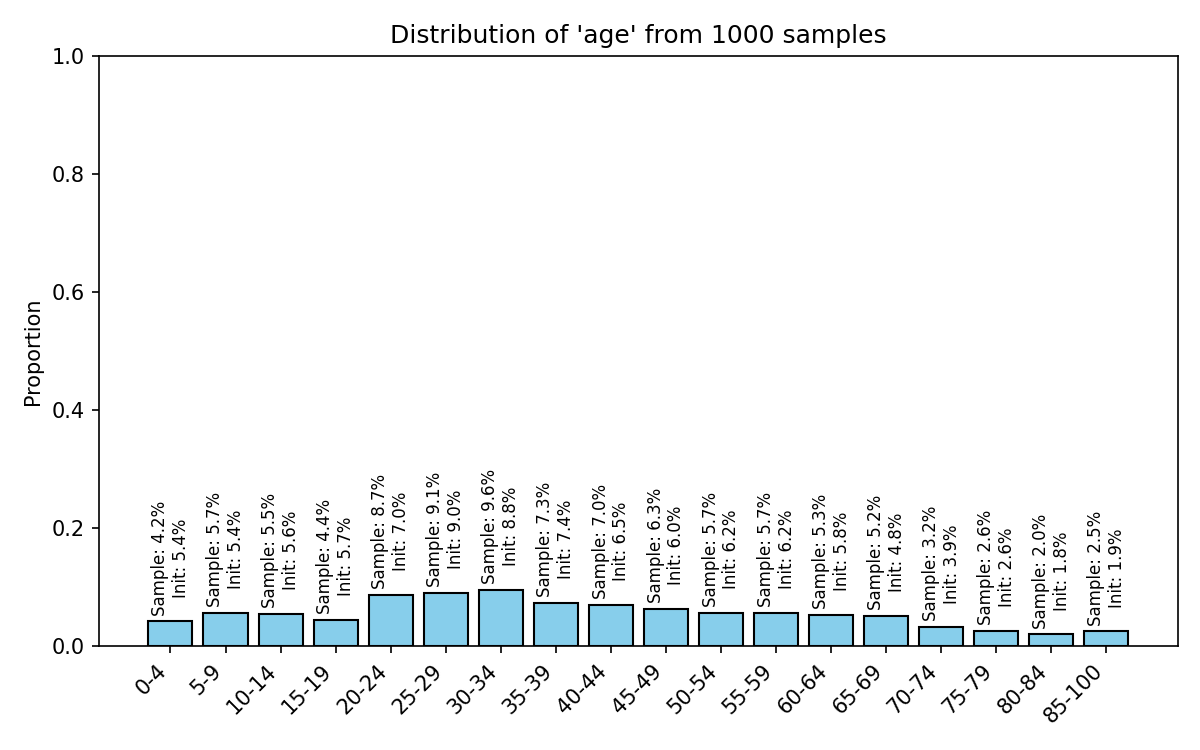
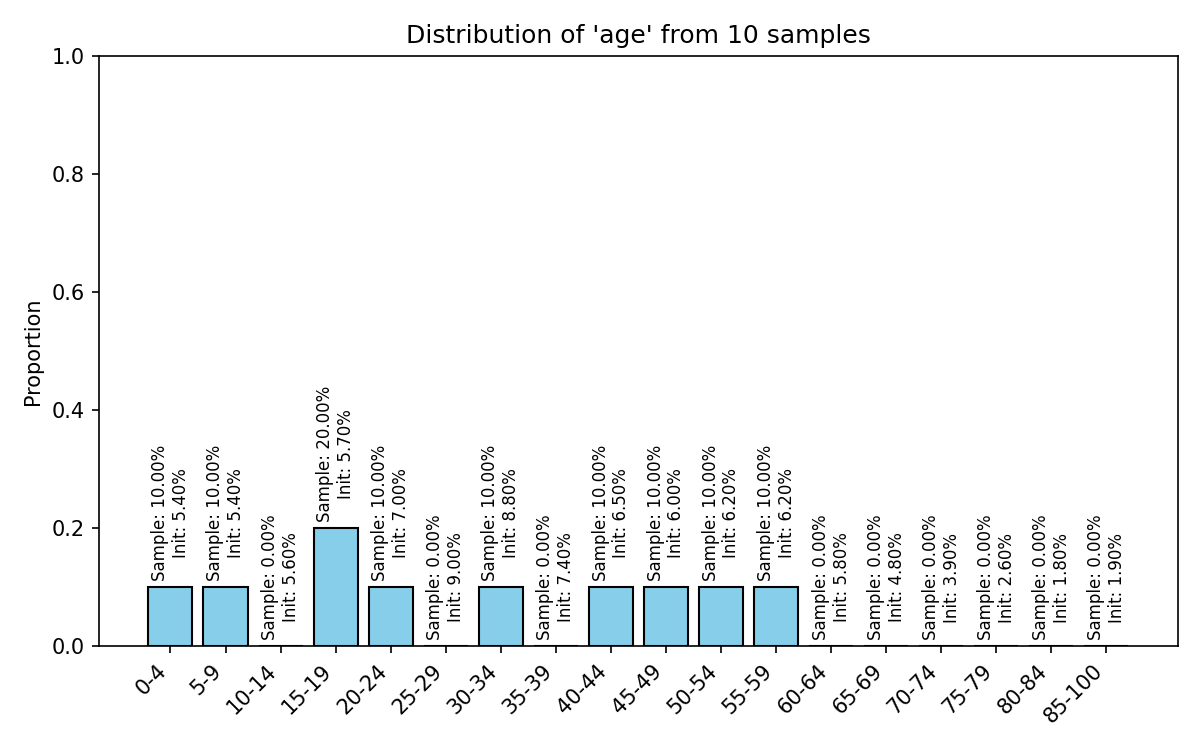
Update vars

Changed region(s): [[0.1233, 0.5213, 0.9558, 0.8587], [0.3083, 0.0307, 0.74, 0.0613]]

diff --git a/users/plot_distribution.py b/users/plot_distribution.py
@@ -14,26 +14,36 @@ def sample_and_plot_distributions(num_samples=10, output_dir="./users/output"):
     4. Annotates each bar with both:
        - The original (initial) distribution probability
        - The sampled proportion.
+       
+    Special handling:
+       - If `.uniform()` returns booleans (True/False) but distribution is
+         labeled ("Yes", p1), ("No", p2), we map True -> "Yes", False -> "No".
     
     :param num_samples: Number of samples to draw for each attribute
-    :param output_dir: Directory to save the resulting bar charts
+    :param output_dir:  Directory to save the resulting bar charts
     """
-    # Get only those attributes that actually have a defined distribution
     dist_attrs = PersonAttributeMeta.attribute_distribution()
 
     for attr, dist in dist_attrs.items():
-        # -----------------------------------------
-        # 1. Collect samples
-        # -----------------------------------------
+        # ---------------------------------------------------
+        # 1. Collect N samples from .uniform()
+        # ---------------------------------------------------
         samples = [PersonAttributeMeta.registry[attr].uniform() for _ in range(num_samples)]
         
-        # -----------------------------------------
-        # 2. Build a label->prob mapping (from .distribution)
-        #    For continuous/interval attributes (like 'age'),
-        #    we label each interval as "start-end".
-        # -----------------------------------------
+        # ---------------------------------------------------
+        # 2. Extract label->prob (from distribution)
+        #
+        #    For discrete attributes, you might have:
+        #       [("male", 47.5), ("female", 52.5)]
+        #
+        #    For intervals, you might have:
+        #       [((0,4), 5.4), ((5,9), 5.4), ...]
+        #
+        #    For yes/no booleans:
+        #       [("Yes", 0.74), ("No", 99.26)]
+        # ---------------------------------------------------
         def get_label_and_prob(d):
-            # d is either ((start,end), probability) or (value, probability)
+            # d is either ((start,end), prob) or (str, prob)
             value, prob = d
             if isinstance(value, tuple):
                 start, end = value
@@ -44,74 +54,77 @@ def sample_and_plot_distributions(num_samples=10, output_dir="./users/output"):
 
         label_prob = {}
         for d in dist:
-            label, prob = get_label_and_prob(d)
-            label_prob[label] = prob  # prob is in %, e.g. 5.4 means 5.4%
+            label, prob = get_label_and_prob(d)   # e.g. ("Yes", 0.74)
+            label_prob[label] = prob             # store probability (0.74, etc.)
 
-        # -----------------------------------------
+        # ---------------------------------------------------
         # 3. Tally up the sampled results
-        #    For intervals, find which bin each sample falls into.
-        # -----------------------------------------
+        #    - If we have intervals, find which interval the sample falls into.
+        #    - If sample is boolean, map True->"Yes", False->"No" if that matches
+        #      the distribution keys.
+        #    - Otherwise, do str(sample).
+        # ---------------------------------------------------
         freq_dict = {lbl: 0 for lbl in label_prob.keys()}
         
         def sample_to_label(s):
-            """
-            For interval-based distribution (e.g. 'age'), find which interval
-            s belongs to. Otherwise, return the discrete label (like 'male').
-            """
+            # Check if the distribution is interval-based
             if isinstance(dist[0][0], tuple):
                 # intervals of form ((start, end), prob)
                 for (rng, _prob) in dist:
                     start, end = rng
                     if start <= s <= end:
                         return f"{start}-{end}"
-            else:
-                # Discrete distribution
-                return str(s)
+            
+            # If sample is boolean and the distribution is "Yes"/"No"
+            # we match accordingly:
+            if isinstance(s, bool) and "Yes" in label_prob and "No" in label_prob:
+                return "Yes" if s else "No"
+            
+            # Otherwise treat as a discrete category (string)
+            return str(s)
 
         for s in samples:
             freq_dict[sample_to_label(s)] += 1
 
-        # -----------------------------------------
+        # ---------------------------------------------------
         # 4. Prepare data for plotting
-        # -----------------------------------------
-        labels = list(freq_dict.keys())          # category labels (e.g. '0-4', 'male', etc.)
+        # ---------------------------------------------------
+        labels = list(freq_dict.keys())          # e.g. ["Yes","No"] or intervals, etc.
         freqs = [freq_dict[lbl] for lbl in labels]
         total = sum(freqs)
         proportions = [f / total for f in freqs]  # fraction in [0,1]
 
-        # -----------------------------------------
+        # ---------------------------------------------------
         # 5. Plot the bar chart
-        # -----------------------------------------
+        # ---------------------------------------------------
         x = np.arange(len(labels))
         fig, ax = plt.subplots(figsize=(8, 5))
         
-        # Draw bars
         bars = ax.bar(x, proportions, color="skyblue", edgecolor="black")
 
-        # Title & labels
         ax.set_title(f"Distribution of '{attr}' from {num_samples} samples")
         ax.set_xticks(x)
         ax.set_xticklabels(labels, rotation=45, ha='right')
         ax.set_ylabel("Proportion")
-        ax.set_ylim([0, 1.0])  # proportions go from 0 to 1
+        ax.set_ylim([0, 1.0])  # proportions range from 0 to 1
 
-        # -----------------------------------------
-        # 6. Annotate each bar:
-        #    - Sample proportion (based on the simulation)
-        #    - Initial distribution probability (from label_prob)
-        # -----------------------------------------
+        # ---------------------------------------------------
+        # 6. Annotate each bar with:
+        #    - The sample proportion
+        #    - The initial distribution probability
+        # ---------------------------------------------------
         for i, lbl in enumerate(labels):
-            init_prob = label_prob[lbl]          # e.g. 5.4 means 5.4%
+            init_prob = label_prob[lbl]          # e.g. 0.74
             sample_prop = proportions[i]         # fraction in [0,1]
-            sample_percent = sample_prop * 100   # convert fraction to percentage
+            sample_percent = sample_prop * 100   # e.g. 55.2 for 0.552
 
-            # Position the text slightly above the bar
+            # text position
             bar_height = sample_prop
             text_x = x[i]
             text_y = bar_height + 0.01
 
-            annotation = (f"Sample: {sample_percent:.1f}%\n"
-                          f"Init: {init_prob:.1f}%")
+            annotation = (f"Sample: {sample_percent:.2f}%\n"  # show 2 decimal places
+                          f"Init: {init_prob:.2f}%")
             
             ax.text(
                 text_x,
@@ -125,9 +138,9 @@ def sample_and_plot_distributions(num_samples=10, output_dir="./users/output"):
 
         plt.tight_layout()
 
-        # -----------------------------------------
+        # ---------------------------------------------------
         # 7. Save the figure
-        # -----------------------------------------
+        # ---------------------------------------------------
         plot_filename = f"{output_dir}/{attr}_distribution.png"
         plt.savefig(plot_filename, dpi=150)
         print(f"Saved distribution plot for '{attr}' to: {plot_filename}")
@@ -136,4 +149,4 @@ def sample_and_plot_distributions(num_samples=10, output_dir="./users/output"):
 if __name__ == "__main__":
     random.seed(42)
     np.random.seed(42)
-    sample_and_plot_distributions(num_samples=1000)
+    sample_and_plot_distributions(num_samples=10)

diff --git a/users/user_features.py b/users/user_features.py
@@ -114,6 +114,9 @@ def sample_categorical(dist):
 
     return dist[-1][0]
 
+def yes_no_to_bool_map(yes_or_no_string):
+    return yes_or_no_string.lower() == "yes"
+
 ### DEMOGRAPHICS ###
 class age(BasePersonAttr):
     distribution = [((0, 4), 5.4), ((5, 9), 5.4), ((10, 14), 5.6), ((15, 19), 5.7), ((20, 24), 7.0), ((25, 29), 9.0), ((30, 34), 8.8), ((35, 39), 7.4), ((40, 44), 6.5), ((45, 49), 6.0), ((50, 54), 6.2), ((55, 59), 6.2), ((60, 64), 5.8), ((65, 69), 4.8), ((70, 74), 3.9), ((75, 79), 2.6), ((80, 84), 1.8), ((85, 100), 1.9)]
@@ -153,9 +156,10 @@ class RelationEnum(Enum):
 
 
 class relation(BasePersonAttr):
+    distribution = [("self", 0), ("spouse", 13.8), ("child", 27.6), ("stepchild", 2.075), ("grandchild", 2.5), ("foster child", 2.65), ("adopted child", 13.8), ("sibling", 2.075), ("niece_nephew", 2.075), ("other_family", 2.075), ("other_non_family", 2.65)]
     schema = And(lambda x: x in RelationEnum._value2member_map_)
     random = lambda: np.random.choice(list(RelationEnum)).value
-    uniform = lambda: np.random.choice(list(RelationEnum)).value
+    uniform = lambda: sample_categorical(relation.distribution)
     default = RelationEnum.SELF.value
     nl_fn = lambda n, x: (
         f"You are {n}" if x == RelationEnum.SELF.value else f"{n} is your {x}"
@@ -165,17 +169,19 @@ class relation(BasePersonAttr):
 
 
 class disabled(BasePersonAttr):
+    distribution = [("Yes", 11), ("No", 89)]
     schema = And(bool)
     random = lambda: bool(np.random.choice([True, False]))
-    uniform = lambda: bool(np.random.choice([True, False]))
+    uniform = lambda: yes_no_to_bool_map(sample_categorical(disabled.distribution))
     default = False
     nl_fn = lambda n, x: f"{n} is disabled." if x else f"{n} is not disabled."
 
 
 class has_ssn(BasePersonAttr):
+    distribution = [("Yes", 96.83), ("No", 3.17)]
     schema = And(bool)
     random = lambda: bool(np.random.choice([True, False]))
-    uniform = lambda: bool(np.random.choice([True, False]))
+    uniform = lambda: yes_no_to_bool_map(sample_categorical(has_ssn.distribution))
     default = True
     nl_fn = lambda n, x: (
         f"{n} has a social security number (SSN)."
@@ -193,9 +199,10 @@ class has_ssn(BasePersonAttr):
 
 
 class has_atin(BasePersonAttr):
+    distribution = [("Yes", 4.0), ("No", 96.0)]
     schema = And(bool)
     random = lambda: bool(np.random.choice([True, False]))
-    uniform = lambda: bool(np.random.choice([True, False]))
+    uniform = lambda: yes_no_to_bool_map(sample_categorical(has_atin.distribution))
     default = False
     nl_fn = lambda n, x: (
         f"{n} has an adoption taxpayer ID number (ATIN)."
@@ -210,9 +217,10 @@ class has_atin(BasePersonAttr):
 
 
 class has_itin(BasePersonAttr):
+    distribution = [("Yes", 0.74), ("No", 99.26)]
     schema = And(bool)
     random = lambda: bool(np.random.choice([True, False]))
-    uniform = lambda: bool(np.random.choice([True, False]))
+    uniform = lambda: yes_no_to_bool_map(sample_categorical(has_itin.distribution))
     default = False
     nl_fn = lambda n, x: (
         f"{n} has an individual taxpayer ID number (ITIN)."
@@ -232,9 +240,10 @@ class has_itin(BasePersonAttr):
 
 
 class can_care_for_self(BasePersonAttr):
+    distribution = [("Yes", 3.69), ("No", 96.31)]
     schema = And(bool)
     random = lambda: bool(np.random.choice([True, False]))
-    uniform = lambda: bool(np.random.choice([True, False]))
+    uniform = lambda: yes_no_to_bool_map(sample_categorical(can_care_for_self.distribution))
     default = True
     nl_fn = lambda n, x: (
         f"{n} can care for themselves." if x else f"{n} cannot care for themselves."
@@ -252,9 +261,10 @@ class PlaceOfResidenceEnum(Enum):
 
 
 class place_of_residence(BasePersonAttr):
+    distribution = [("New York City", 47.1), ("Jersey", 52.9)]
     schema = And(lambda x: x in [y.value for y in PlaceOfResidenceEnum])
     random = lambda: np.random.choice([x.value for x in PlaceOfResidenceEnum])
-    uniform = lambda: np.random.choice([x.value for x in PlaceOfResidenceEnum])
+    uniform = lambda: sample_categorical(place_of_residence.distribution)
     default = PlaceOfResidenceEnum.NYC.value
     nl_fn = lambda n, x: f"{n} lives in {x}."
 
@@ -264,9 +274,10 @@ class place_of_residence(BasePersonAttr):
 
 # Training Info
 class enrolled_in_educational_training(BasePersonAttr):
+    distribution = [("Yes", 53.8), ("No", 56.2)]
     schema = And(bool)
     random = lambda: bool(np.random.choice([True, False]))
-    uniform = lambda: bool(np.random.choice([True, False]))
+    uniform = lambda: yes_no_to_bool_map(sample_categorical(enrolled_in_educational_training.distribution))
     default = False
     nl_fn = lambda n, x: (
         f"{n} is enrolled in educational training."
@@ -281,9 +292,10 @@ class enrolled_in_educational_training(BasePersonAttr):
 
 
 class enrolled_in_vocational_training(BasePersonAttr):
+    distribution = [("Yes", 10.0), ("No", 90.0)]
     schema = And(bool)
     random = lambda: bool(np.random.choice([True, False]))
-    uniform = lambda: bool(np.random.choice([True, False]))
+    uniform = lambda: yes_no_to_bool_map(sample_categorical(enrolled_in_vocational_training.distribution))
     default = False
     nl_fn = lambda n, x: (
         f"{n} is enrolled in vocational training."
@@ -299,17 +311,29 @@ class enrolled_in_vocational_training(BasePersonAttr):
 
 # Financial Info
 class annual_work_income(BasePersonAttr):
+    distribution = [
+        ((0, 9999), 5.3),
+        ((10000, 14999), 3.5),
+        ((15000, 24999), 6.4),
+        ((25000, 34999), 6.8),
+        ((35000, 49999), 10.3),
+        ((50000, 74999), 16.1),
+        ((75000, 99999), 12.7),
+        ((100000, 149999), 17.4),
+        ((150000, 199999), 9.1),
+        ((200000, 999999), 12.4)
+    ]
+
     schema = And(int, lambda n: n >= 0)
     def random():
         if np.random.choice([True, False]):
             return np.random.randint(0, 100000)
         else:
             return 0
+        
     def uniform():
-        if np.random.choice([True, False]):
-            return np.random.randint(0, 100000)
-        else:
-            return 0
+        return sample_from_distribution(annual_work_income.distribution)
+    
     default = 0
     nl_fn = lambda n, x: (
         f"{n} makes {x} per year working." if x else f"{n} does not work."
